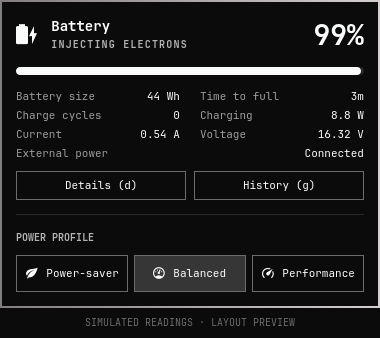
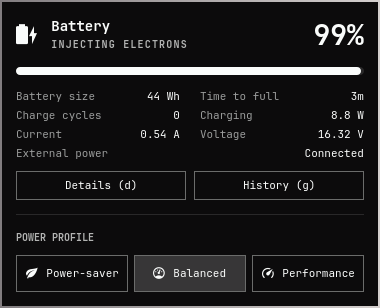
Remove preview caption and footer space from screenshots

diff --git a/tests/render.qml b/tests/render.qml
@@ -15,7 +15,7 @@ ShellRoot {
     Rectangle {
       id: capture
       width: parent.width
-      height: card.height + caption.implicitHeight + Style.space(16)
+      height: card.height
       color: Color.popups.background
       BorderSurface {
         id: card
@@ -32,17 +32,6 @@ ShellRoot {
           width: card.width - card.contentLeftInset - card.contentRightInset
           height: power.previewContent.implicitHeight
         }
-      }
-      Text {
-        id: caption
-        anchors.top: card.bottom
-        anchors.topMargin: Style.space(8)
-        anchors.horizontalCenter: parent.horizontalCenter
-        text: Quickshell.env("POWER_PREVIEW_CAPTION") || "SIMULATED READINGS · LAYOUT PREVIEW"
-        color: Color.foreground
-        opacity: 0.4
-        font.family: Style.font.family
-        font.pixelSize: Style.font.caption
       }
       Component.onCompleted: {
         power.previewContent.parent = contentHost
